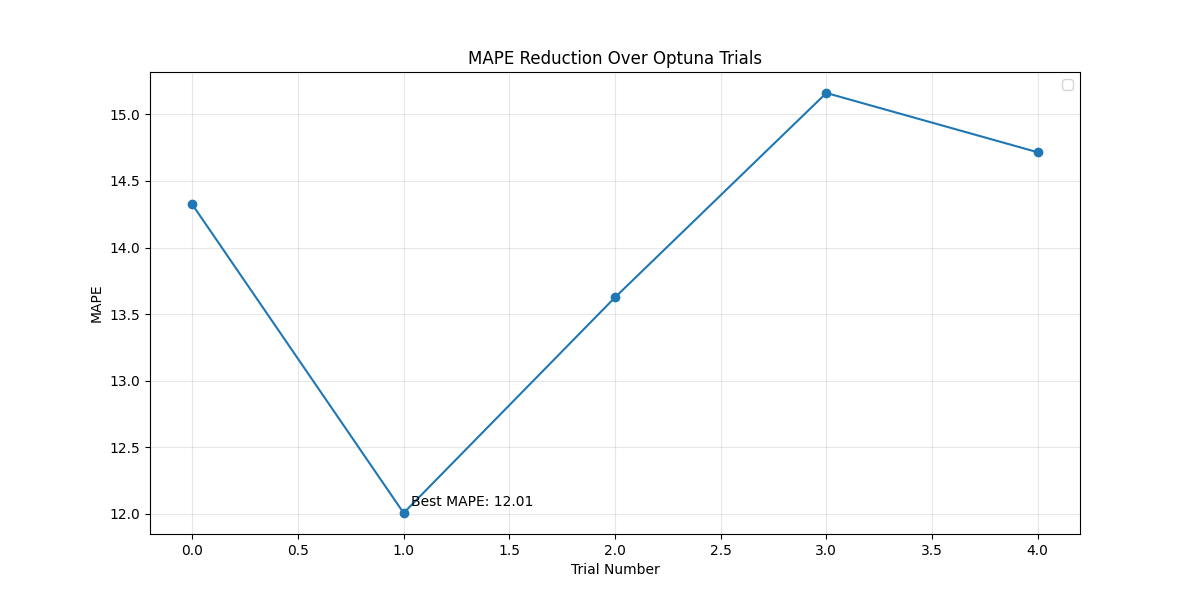
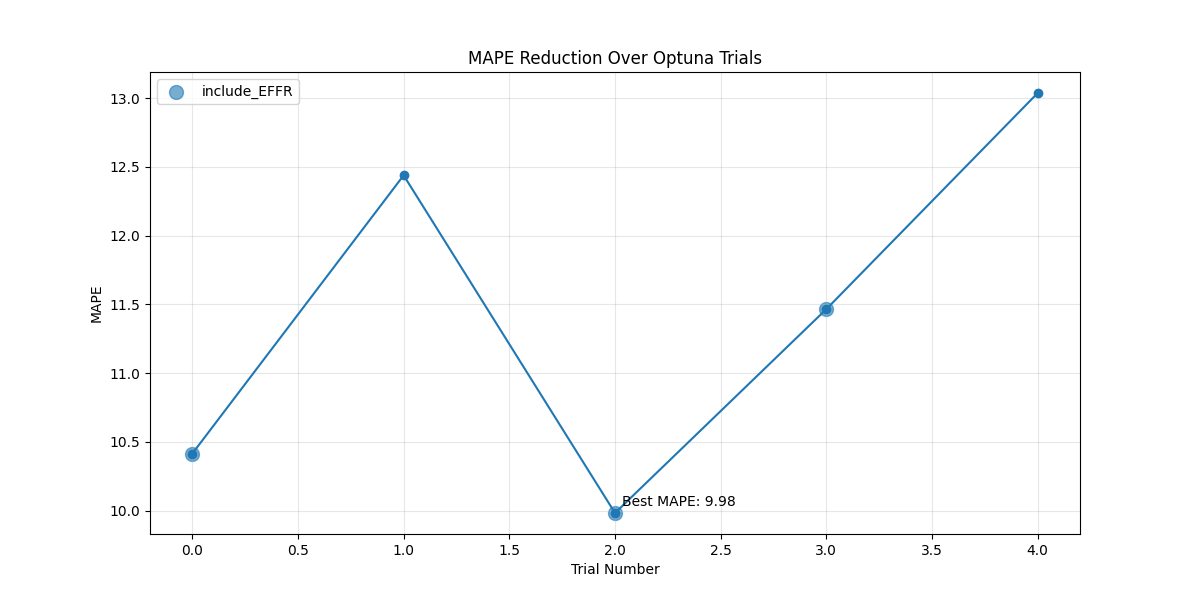
added quarter delta of fred data

diff --git a/main.py b/main.py
@@ -8,12 +8,15 @@ print(f"Using device: {device}")
 data = {ticker: yf.download(ticker, start=start_date, end=end_date) for ticker in tickers}
 
 # Fetch data for each indicator
+# Fetch data for each indicator
 indicator_data = {}
-# Resample indicator data to weekly frequency and apply lag
+# Resample indicator data to weekly frequency and apply both lags
 for indicator in indicators:
     indicator_data[indicator] = pdr.get_data_fred(indicator, start=start_date, end=end_date)
-    indicator_data[indicator] = indicator_data[indicator].shift(2)  # Lagging the indicator by 2 periods
-    indicator_data[indicator] = indicator_data[indicator].resample('W').last()
+    indicator_data[indicator + '-2'] = indicator_data[indicator].shift(2)  # Lagging the indicator by 2 periods
+    indicator_data[indicator + '-91'] = indicator_data[indicator].shift(91)  # Lagging the indicator by 91 periods
+    indicator_data[indicator + '-2'] = indicator_data[indicator + '-2'].resample('W').last()
+    indicator_data[indicator + '-91'] = indicator_data[indicator + '-91'].resample('W').last()
 
 # Create a new DataFrame to hold the required features
 stock_data = []
@@ -37,12 +40,14 @@ pivot_stock_df.columns = pd.MultiIndex.from_tuples([('stock', col[1], col[0]) fo
 # Create a DataFrame for the indicators with a multi-level column index
 pivot_indicator_df = pd.DataFrame(index=pivot_stock_df.index)
 for indicator in indicators:
-    pivot_indicator_df[('fred', indicator, 'value-2')] = indicator_data[indicator]  # Adjust column name to indicate the shift
+    pivot_indicator_df[('fred', indicator, 'value-2')] = indicator_data[indicator + '-2']  # Adjust column name to indicate the 2-day shift
+    pivot_indicator_df[('fred', indicator, 'value-91')] = indicator_data[indicator + '-91']  # Adjust column name to indicate the 91-day shift
 
 # Combine stock and indicator data
 combined_df = pd.concat([pivot_stock_df, pivot_indicator_df], axis=1)
 combined_df.dropna(inplace=True)
 
+# Rest of the code remains the same
 trial_results = []
 
 # Run the study
@@ -125,7 +130,9 @@ features = [
     ('stock', 'GOOGL', 'vwp'), 
     ('stock', 'GOOGL', 'p-1'),
     ('fred', 'T10Y3M', 'value-2'),
-    ('fred', 'EFFR', 'value-2')
+    ('fred', 'T10Y3M', 'value-91'),
+    ('fred', 'EFFR', 'value-2'),
+    ('fred', 'EFFR', 'value-91')
 ]
 forecast_features = [('stock', 'GOOGL', 'Adj Close')]
 backtest_and_evaluate(study, combined_df, MinMaxScaler(), features, forecast_features, NUM_EPOCHS=NUM_EPOCHS)

diff --git a/CNN_LSTM/visualization.py b/CNN_LSTM/visualization.py
@@ -20,12 +20,15 @@ from constants import *
 
 import matplotlib.dates as mdates
 
-def plot_predictions_with_intervals(y_pred, lower_bound_res, upper_bound_res, dates, feature_names, std_dev=0.33):
+def plot_predictions_with_intervals(y_pred, lower_bound_res, upper_bound_res, dates, feature_names, std_dev=0.67):
     n_features = y_pred.shape[1]
     fig, axes = plt.subplots(n_features, 1, figsize=(12, 6*n_features), sharex=True)
     
     if n_features == 1:
         axes = [axes]
+    
+    # Calculate the percentage for ±0.67 standard deviations
+    z_score_percent = (stats.norm.cdf(std_dev) - stats.norm.cdf(-std_dev)) * 100
     
     for i, (ax, feature) in enumerate(zip(axes, feature_names)):
         y_pred_trimmed = y_pred[:, i]
@@ -36,22 +39,18 @@ def plot_predictions_with_intervals(y_pred, lower_bound_res, upper_bound_res, da
         # Plot residual-based prediction intervals
         ax.fill_between(dates, lower_bound_res[:, i], upper_bound_res[:, i], color='green', alpha=0.2, label='Residual-Based Prediction Interval')
         
-        # Calculate the percentage of the standard deviation
-        mean = y_pred_trimmed.mean()
-        interval = std_dev * mean
-        percentage = std_dev * 100
-        
-        # Add title including the prediction interval percentage
-        ax.set_title(f'{feature} Prediction with Intervals (±{percentage:.2f}% std dev)')
+        # Add title including the z-score percentage
+        ax.set_title(f'{feature} Prediction with Intervals\n(Based on residuals, ±0.67 std dev ≈ {z_score_percent:.2f}%)')
         
         ax.set_xlabel('Date')
         ax.set_ylabel('Value')
         
         ax.legend(loc='upper left')
         
-        # Format x-axis to show dates nicely
+        # Format x-axis to show all dates
+        ax.set_xticks(dates)
         ax.xaxis.set_major_formatter(mdates.DateFormatter('%Y-%m-%d'))
-        ax.xaxis.set_major_locator(mdates.MonthLocator(interval=3))
+        ax.xaxis.set_major_locator(mdates.DayLocator(interval=1))
 
     plt.gcf().autofmt_xdate()  # Rotate date labels
     plt.tight_layout()

diff --git a/CNN_LSTM/evaluation.py b/CNN_LSTM/evaluation.py
@@ -212,7 +212,7 @@ def backtest_and_evaluate(study, combined_df, scaler, features, forecast_feature
     
     yhat_forecast_inverse_last = yhat_forecast_inverse
     
-    std_dev_constant = 0.33
+    std_dev_constant = 0.67
     lower_bounds_original = yhat_forecast_inverse_last - std_dev_constant * yhat_forecast_inverse_last
     upper_bounds_original = yhat_forecast_inverse_last + std_dev_constant * yhat_forecast_inverse_last
     
